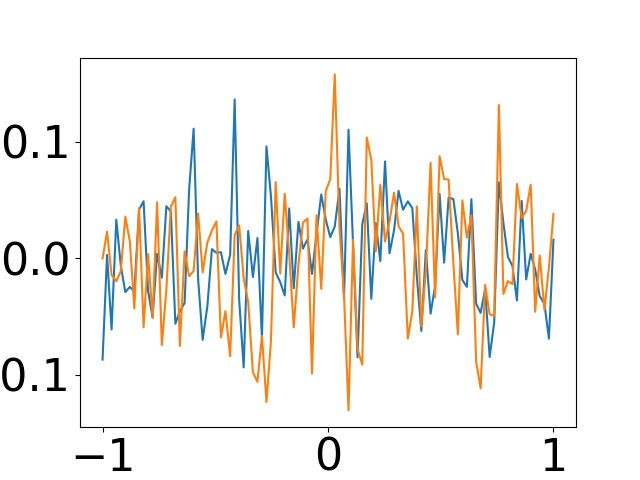
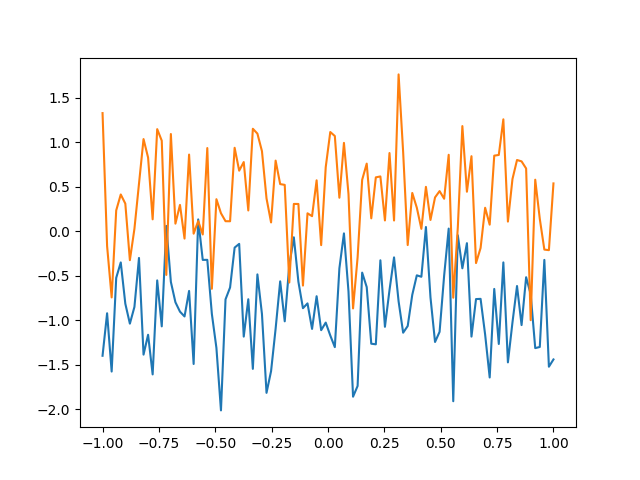
prior example

diff --git a/codes/generate_bnn_prior.py b/codes/generate_bnn_prior.py
@@ -1,0 +1,142 @@
+import pickle
+import argparse
+import yaml
+
+import numpy as np
+import matplotlib.pyplot as plt
+import pandas as pd
+import torch
+import torch.nn as nn
+
+from scipy.interpolate import CubicSpline
+
+
+import pyro
+import pyro.distributions as dist
+from pyro.nn import PyroModule, PyroSample
+from pyro.infer import SVI, Trace_ELBO
+from pyro.infer.autoguide import AutoDiagonalNormal
+from pyro.optim import Adam
+from tqdm.auto import trange
+
+from models import deconvolution
+
+
+
+class BNN(PyroModule):
+
+    def __init__(self, n_in, n_out, layers):
+        super().__init__()
+        
+        self.n_layers = len(layers)
+        self.layers = PyroModule[torch.nn.ModuleList]([
+                                PyroModule[nn.Linear](n_in, n_out)
+        for j in range(self.n_layers)
+        ])  
+
+        self.activations = []
+        for ii, layer in enumerate(layers):
+
+            # Scaling the weights, for gaussian n^(-1/2) and for cauchy n^-1
+            if ii == self.n_layers-1:
+                if layers[layer]['type'] == 'gaussian':
+                    weight = layers[layer]['weight']*float(1/np.sqrt(n_out))
+                else:
+                    weight = layers[layer]['weight']*float(1/n_out)
+            else:
+                weight = layers[layer]['weight']
+            bias = layers[layer]['bias']
+
+            if layers[layer]['type'] == 'cauchy':
+                self.layers[ii].weight = PyroSample(dist.Cauchy(0.,
+                                                torch.tensor(weight)).expand([n_out, n_out]).to_event(2))
+                self.layers[ii].bias = PyroSample(dist.Cauchy(0.,
+                                                torch.tensor(bias)).expand([n_out]).to_event(1))
+            elif layers[layer]['type'] == 'gaussian':
+                self.layers[ii].weight = PyroSample(dist.Normal(0.,
+                                                torch.tensor(weight)).expand([n_out, n_out]).to_event(2))    
+                self.layers[ii].bias = PyroSample(dist.Normal(0.,
+                                                torch.tensor(bias)).expand([n_out]).to_event(1))
+            else:
+                print('Invalid layer!')
+            
+            self.activations.append(layers[layer]['activation'])
+
+        self.relu = nn.ReLU()
+        self.tanh = nn.Tanh()
+
+    def forward(self, t, A, y=None):
+        #t = t.reshape(-1, 1)
+        
+        
+        if self.activations[0] == 'tanh':
+            x = self.tanh(self.layers[0](t))
+        elif self.activations[0] == 'relu':
+            x = self.relu(self.layers[0](t))
+        else:
+            x = self.layers[0](t)
+            
+
+        for ii in range(1, self.n_layers-1):
+            if self.activations[ii] == 'tanh':
+                x = self.tanh(self.layers[ii](x))
+            elif self.activations[ii] == 'relu':
+                x = self.relu(self.layers[ii](x))
+            else:
+                x = self.layers[ii](x)
+
+        if self.activations[-1] == 'tanh':
+            x = self.tanh(self.layers[-1](x))
+        elif self.activations[-1] == 'relu':
+            x = self.relu(self.layers[-1](x))
+        else:
+            x = self.layers[-1](x)
+    
+        y_hat = torch.matmul(A, x)
+        sigma = pyro.sample("sigma", dist.Uniform(0.,
+                                                torch.tensor(0.01)))
+        with pyro.plate("data", n_y):
+            obs = pyro.sample("obs", dist.Normal(y_hat, sigma), obs=y)
+        return x
+
+
+def prior(t):
+    t = t.detach().numpy()
+    weights1 = np.random.normal(0., 0.05/100/np.sqrt(200), (100,200))
+    bias1 = np.random.normal(10., 0.05, (200,))
+
+    weights2 = np.random.normal(0., 0.01/np.sqrt(100), (200,100))
+    bias2 = np.random.normal(0., 0.1, (100,))
+
+    weights3 = np.random.normal(1., 0.5, (100,100))
+    bias3 = np.random.normal(0., 0.01, (100,))
+
+    x = np.tanh(weights1.T @ t + bias1)
+    x =  np.tanh(weights2.T @ x + bias2)
+    x =  weights3.T @ x + bias3
+
+    return x
+
+
+
+def generate_bnn_realization_plot(t):
+    # Generate prior realizations, A not used
+    realizations = np.empty((len(t), 2))
+    for ii in range(0, 2):
+        realizations[:,ii] = prior(t)
+    
+    plt.plot(t, realizations)
+    plt.savefig('realization.png')
+
+
+
+
+if __name__ == '__main__':
+    
+    t = torch.linspace(-1, 1, 100)
+
+    generate_bnn_realization_plot(t)
+    
+
+    
+        

diff --git a/codes/main_bnn_prior.py b/codes/main_bnn_prior.py
@@ -130,37 +130,52 @@ class BNN(PyroModule):
         
         
         if self.activations[0] == 'tanh':
-            mu = self.tanh(self.layers[0](t))
+            x = self.tanh(self.layers[0](t))
         elif self.activations[0] == 'relu':
-            mu = self.relu(self.layers[0](t))
+            x = self.relu(self.layers[0](t))
         else:
-            mu = self.layers[0](t)
+            x = self.layers[0](t)
             
 
         for ii in range(1, self.n_layers-1):
             if self.activations[ii] == 'tanh':
-                mu = self.tanh(self.layers[ii](mu))
+                x = self.tanh(self.layers[ii](x))
             elif self.activations[ii] == 'relu':
-                mu = self.relu(self.layers[ii](mu))
+                x = self.relu(self.layers[ii](x))
             else:
-                mu = self.layers[ii](mu)
+                x = self.layers[ii](x)
 
         if self.activations[-1] == 'tanh':
-            mu = self.tanh(self.layers[-1](mu))
+            x = self.tanh(self.layers[-1](x))
         elif self.activations[-1] == 'relu':
-            mu = self.relu(self.layers[-1](mu))
+            x = self.relu(self.layers[-1](x))
         else:
-            mu = self.layers[-1](mu)
+            x = self.layers[-1](x)
     
-        print(self.layers[0].weight.T) 
-
-
-        y_hat = torch.matmul(A, mu)
+        y_hat = torch.matmul(A, x)
         sigma = pyro.sample("sigma", dist.Uniform(0.,
                                                 torch.tensor(0.01)))
         with pyro.plate("data", n_y):
             obs = pyro.sample("obs", dist.Normal(y_hat, sigma), obs=y)
-        return mu
+        return x
+
+
+def prior(t):
+    t = t.detach().numpy()
+    weights1 = np.random.normal(1., 0.1/100, (100,200))
+    bias1 = np.random.normal(1., 0.1, (200,))
+
+    weights2 = np.random.normal(1., 1.0/100, (200,100))
+    bias2 = np.random.normal(1., 1.0, (100,))
+
+    weights3 = np.random.normal(1., 1.0/100000, (100,100))
+    bias3 = np.random.normal(0., 0.01, (100,))
+
+    x = np.tanh(weights1.T @ t + bias1)
+    x =  np.tanh(weights2.T @ x + bias2)
+    x =  weights3.T @ x + bias3
+
+    return x
 
 
 def generate_the_problem(problem_type: str,
@@ -233,7 +248,7 @@ def generate_bnn_realization_plot(bnn, t, A):
     # Generate prior realizations, A not used
     realizations = np.empty((len(t), 2))
     for ii in range(0, 2):
-        realizations[:,ii] = bnn.forward(t, A)
+        realizations[:,ii] = prior(t)
     
     plt.plot(t, realizations)
     plt.savefig('realization.png')
